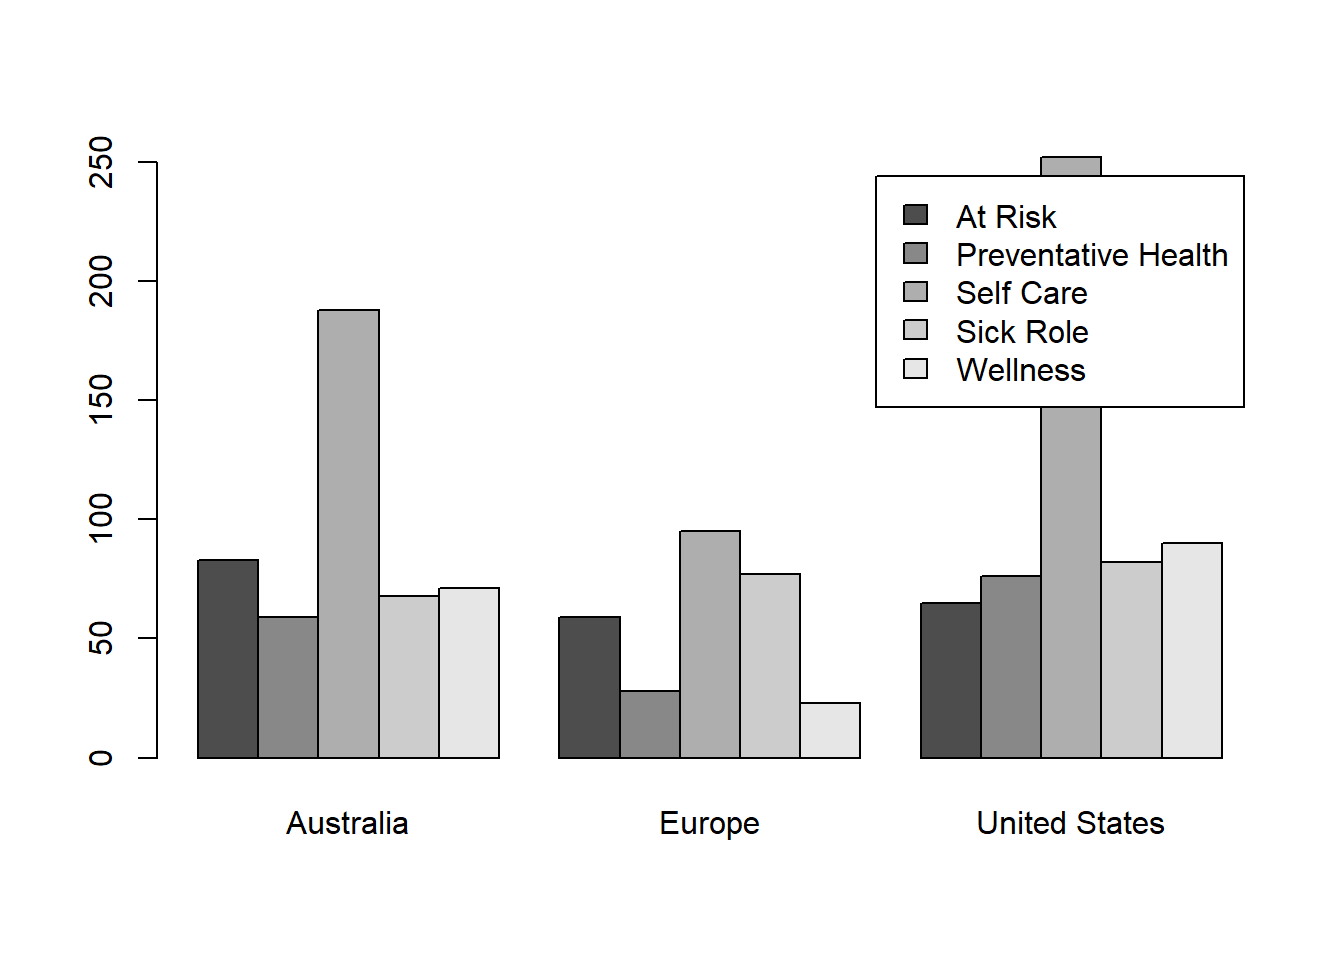
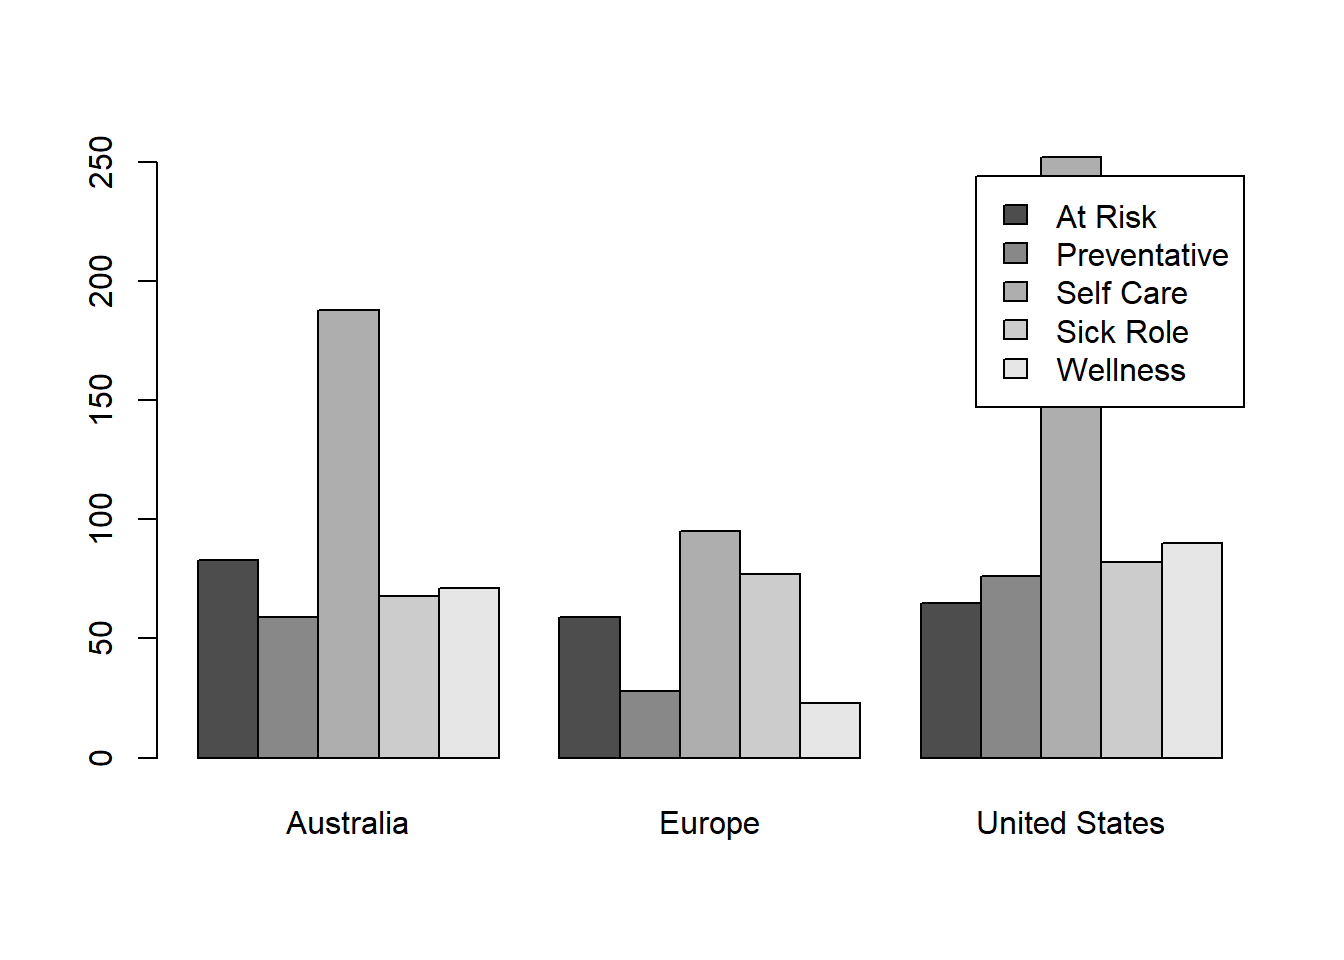
Revised Data for consistency

Changed region(s): [[0.6562, 0.1875, 0.9062, 0.4062]]

diff --git a/docs/Lesson19.html b/docs/Lesson19.html
@@ -537,7 +537,7 @@ At Risk
 Australia
 </td>
 <td style="text-align:left;">
-Preventative Health
+Preventative
 </td>
 </tr>
 <tr>
@@ -641,7 +641,7 @@ Wellness
 United States
 </td>
 <td style="text-align:left;">
-Preventative Health
+Preventative
 </td>
 </tr>
 </tbody>
@@ -657,29 +657,29 @@ R Instructions
 <p>First, read in the data from the file <a href="./data/chiropractic_care_raw.xlsx">chiropractic_care_raw.xlsx</a>. (Review of <a href="RHelp.html#reading-in-the-data">reading in data</a>.)</p>
 <p>You can use the <code>head()</code> function to look at the first few rows of the data.</p>
 <pre class="r"><code>head(chiropractic_care_raw)</code></pre>
-<pre><code>   location          motivation
-1 Australia           Self Care
-2 Australia             At Risk
-3 Australia Preventative Health
-4 Australia           Self Care
-5 Australia           Sick Role
-6 Australia           Self Care</code></pre>
+<pre><code>   location   motivation
+1 Australia    Self Care
+2 Australia      At Risk
+3 Australia Preventative
+4 Australia    Self Care
+5 Australia    Sick Role
+6 Australia    Self Care</code></pre>
 <p>It is hard to visualize these data. We summarize them into a table of counts, which can be called a <em>contingency table</em>. <!--<cite>Blum08</cite>--></p>
 <p>After reading in the data, we can organize it into a contingency table. The values in a contingency table represent the counts of the reasons individuals from each location sought chiropractic care.</p>
 <pre class="r"><code>contingency_table &lt;- table(chiropractic_care_raw)
 contingency_table</code></pre>
 <pre><code>##                motivation
-## location        At Risk Preventative Health Self Care Sick Role Wellness
-##   Australia          83                  59       188        68       71
-##   Europe             59                  28        95        77       23
-##   United States      65                  76       252        82       90</code></pre>
+## location        At Risk Preventative Self Care Sick Role Wellness
+##   Australia          83           59       188        68       71
+##   Europe             59           28        95        77       23
+##   United States      65           76       252        82       90</code></pre>
 <!--
 <table class="table" style="width: auto !important; margin-left: auto; margin-right: auto;">
  <thead>
   <tr>
    <th style="text-align:left;">   </th>
    <th style="text-align:right;"> At Risk </th>
-   <th style="text-align:right;"> Preventative Health </th>
+   <th style="text-align:right;"> Preventative </th>
    <th style="text-align:right;"> Self Care </th>
    <th style="text-align:right;"> Sick Role </th>
    <th style="text-align:right;"> Wellness </th>
@@ -715,13 +715,13 @@ contingency_table</code></pre>
 -->
 <p>We can transpose (or swap the rows and columns of) this table using the command <code>t(...)</code>.</p>
 <pre class="r"><code>t(contingency_table)</code></pre>
-<pre><code>##                      location
-## motivation            Australia Europe United States
-##   At Risk                    83     59            65
-##   Preventative Health        59     28            76
-##   Self Care                 188     95           252
-##   Sick Role                  68     77            82
-##   Wellness                   71     23            90</code></pre>
+<pre><code>##               location
+## motivation     Australia Europe United States
+##   At Risk             83     59            65
+##   Preventative        59     28            76
+##   Self Care          188     95           252
+##   Sick Role           68     77            82
+##   Wellness            71     23            90</code></pre>
 <p>Notice that the values in the first column of the contingency table are in the first row of its transpose. When a table is transposed, the rows and columns essentially trade roles.</p>
 <p>While a table of counts (a contingency table) is helpful in describing the relationship between two categorical variables like <em>location</em> and <em>motivation</em>, a clustered bar chart makes it much easier to visually compare and contrast the observed counts. We can use the contingency table to create a clustered bar chart using the <code>barplot( )</code> command. We will include the following optional commands:</p>
 <ul>
@@ -788,10 +788,10 @@ The value of the degrees of freedom is df = 8 and the $P$-value is $4.58 \times 
 </ul>
 <pre class="r"><code>chisq_results$expected</code></pre>
 <pre><code>               motivation
-location         At Risk Preventative Health Self Care Sick Role Wellness
-  Australia     73.77128            58.09043  190.6649  80.89894 65.57447
-  Europe        44.35714            34.92857  114.6429  48.64286 39.42857
-  United States 88.87158            69.98100  229.6922  97.45821 78.99696</code></pre>
+location         At Risk Preventative Self Care Sick Role Wellness
+  Australia     73.77128     58.09043  190.6649  80.89894 65.57447
+  Europe        44.35714     34.92857  114.6429  48.64286 39.42857
+  United States 88.87158     69.98100  229.6922  97.45821 78.99696</code></pre>
 <ul>
 <li>As shown in the above table, the smallest expected count is <code>63.71289</code>, which is well above the required 5.</li>
 </ul></li>
